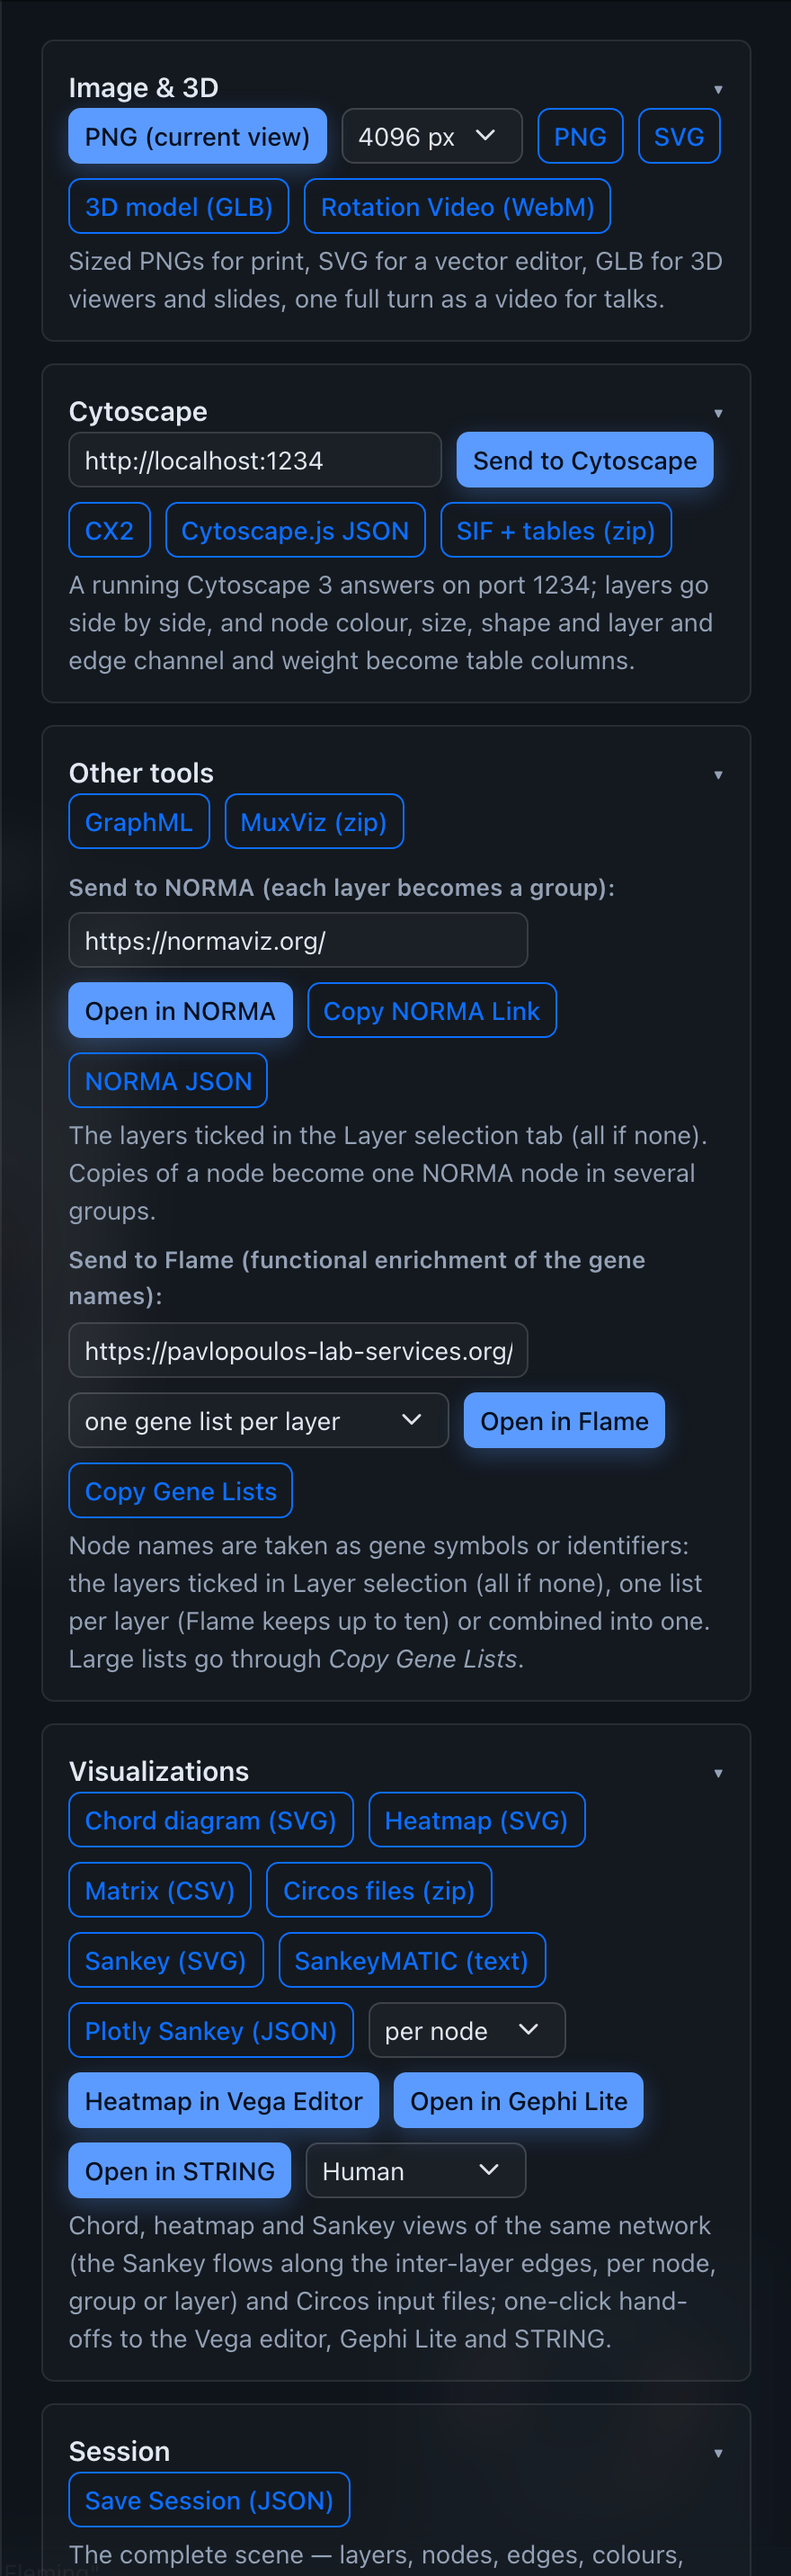
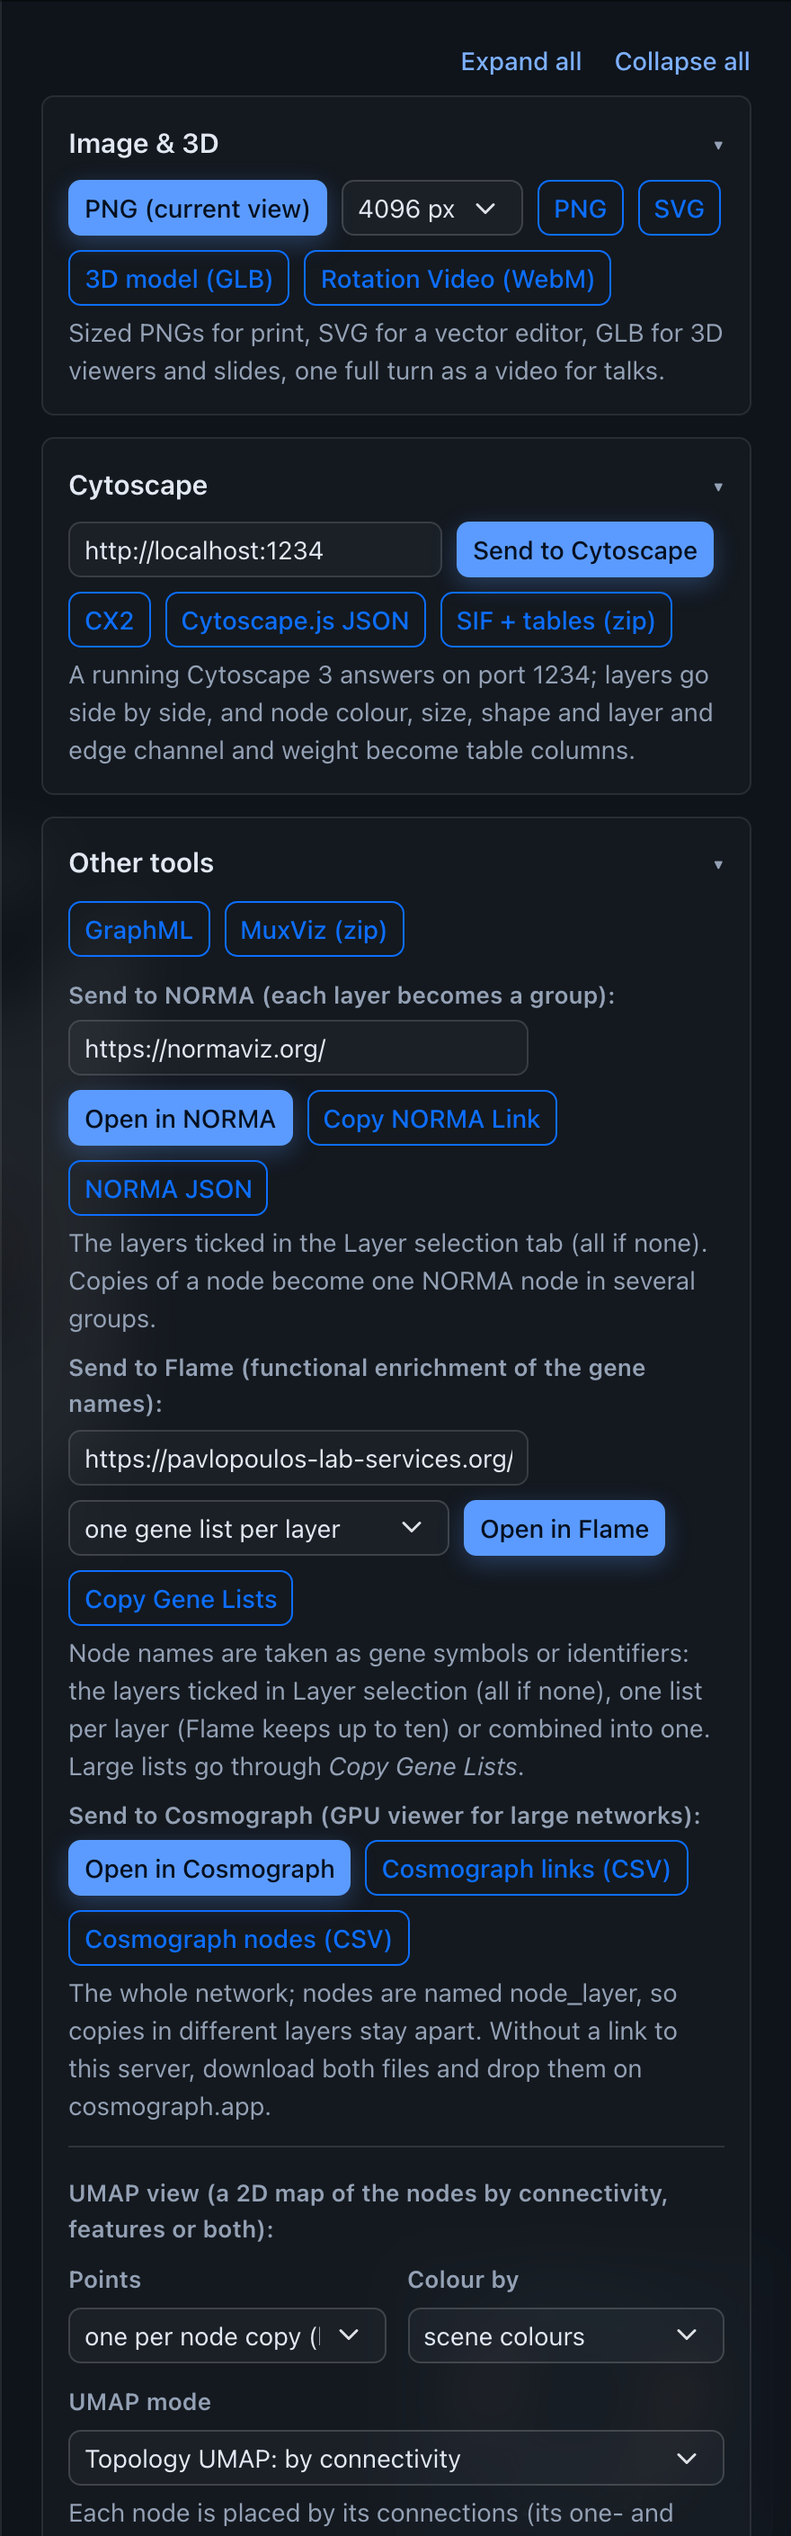
Help screenshots for Plots and Perturbation, dependency floors, Plots cache fix
- Help → Analyze shows the Plots and Perturbation panels; the interface
  screenshots are re-captured
- Analyze panels drop the Expand all / Collapse all row (none has three
  cards); Help says which panels have it
- Plots: the rich-club cache remembers its rewiring count per scope
- httpx2 >= 2.12.0 and vitest ^4.1.11 as minimum versions (Dependabot
  advisories; the lockfiles already had the patched releases)

diff --git a/frontend/e2e/help-shots.spec.ts b/frontend/e2e/help-shots.spec.ts
@@ -19,7 +19,9 @@ test.use({
   viewport: { width: 1440, height: 1500 },
   deviceScaleFactor: 2,
 })
-test.setTimeout(300_000)
+// some twenty panels at 2×, with a knockout and two attacks: minutes on a busy
+// machine
+test.setTimeout(900_000)
 
 const tab = (page: Page, name: string) =>
   page
@@ -230,8 +232,44 @@ test('capture the interface screenshots for the Help pages', async ({
   await expect(page.locator('#panel-main-view')).toHaveClass(/active/)
   await page.waitForTimeout(3000)
   await panel(page, 'Metrics', '#panel-metrics', 'analyze')
+  // a degree histogram, each layer overlaid, with its summary table
+  await panel(page, 'Plots', '#panel-plots', 'plots', async () => {
+    await page.locator('#plotKind').selectOption('histogram')
+    await page.locator('#plotSource').selectOption('metric:Degree')
+    await page.locator('#plotDraw').click()
+    await expect(page.locator('#plot_status')).toContainText(
+      'Drawn: Histogram',
+      { timeout: 60_000 }
+    )
+  })
   await panel(page, 'Data Tables', '#panel-data', 'data')
   await panel(page, 'Performance', '#panel-fps', 'performance')
+  // the top 5 nodes by degree knocked out, and a degree attack against
+  // random failure on the robustness chart
+  await panel(
+    page,
+    'Perturbation',
+    '#panel-perturbation',
+    'perturbation',
+    async () => {
+      await page.locator('#koNodes').selectOption('top')
+      await page.locator('#runKnockout').click()
+      await expect(page.locator('#perturb_status')).toContainText(
+        'Knocked out 5 nodes',
+        { timeout: 60_000 }
+      )
+      await page.locator('#attackStrategy').selectOption('degree')
+      await page.locator('#runAttack').click()
+      const attack = page.locator('#attack_status')
+      await expect(attack).toContainText('robustness R =', { timeout: 120_000 })
+      await page.locator('#attackKeep').check()
+      await page.locator('#attackStrategy').selectOption('random')
+      await page.locator('#runAttack').click()
+      await expect(attack).toContainText('random failure', { timeout: 120_000 })
+    }
+  )
+  // the nodes as they were, for the Clustering shot
+  await page.locator('#koRestore').click()
   // last, as it recolours the nodes: communities found, so the panel shows
   // its summary
   await panel(

diff --git a/frontend/src/ui/help.ts b/frontend/src/ui/help.ts
@@ -133,7 +133,7 @@ const HELP_HTML = `
   <p>
     The panels are made of cards. Click a card's title to fold or open it; the main ones start open (File →
     Network, Examples and Loaded networks, for example) and the rest start folded. In the long panels (File,
-    Edit → Nodes, Edges and Layers, Export and some of the Analyze panels), <i>Expand all</i> and <i>Collapse all</i>
+    Edit → Nodes, Edges and Layers, and Export), <i>Expand all</i> and <i>Collapse all</i>
     at the top open or fold every card at once. Arena3D remembers in this browser which cards you open or fold.
   </p>
   <h3>Networks menu</h3>
@@ -1353,6 +1353,7 @@ const HELP_HTML = `
   </p>
 
   <h3>Plots</h3>
+  <img class="help-shot help-shot--panel" src="${import.meta.env.BASE_URL}images/help/ui/plots.png" alt="The Plots panel: a histogram of degree over the whole network, with its summary statistics" loading="lazy">
   <p>
     <i>Plot</i> picks a chart and shows the options it needs; <i>Graphs</i> draws <i>each layer, overlaid</i> in the
     layer colours with a legend, or <i>the analysed layers as one graph</i> (Single network mode always does). The
@@ -1412,6 +1413,7 @@ const HELP_HTML = `
   </p>
 
   <h3>Perturbation</h3>
+  <img class="help-shot help-shot--panel" src="${import.meta.env.BASE_URL}images/help/ui/perturbation.png" alt="The Perturbation panel: a knockout of the top 5 nodes by degree, and the robustness curves of a degree attack and random failure" loading="lazy">
   <p>
     Analyze → Perturbation has two cards. <i>Knock out</i> removes nodes — the selected nodes, nodes by name (every copy in the analysed layers), or the
     top <i>k</i> by degree, betweenness or PageRank, in the whole network or in each layer — with <i>Every copy

diff --git a/frontend/src/ui/analyze.ts b/frontend/src/ui/analyze.ts
@@ -18,7 +18,7 @@ import { PERTURBATION_HTML, initPerturbation } from './perturbation'
 import { ANNOTATIONS_HTML, initAnnotations } from './annotations'
 import { GROUPS_HTML, initGroups } from './groups'
 import { PLOTS_HTML, initPlots } from './plots'
-import { FOLD_ALL_HTML, openCard } from './sections'
+import { openCard } from './sections'
 import { showTab } from './tabs'
 
 const analyzeProgress = new ProgressBar('analyzeProgress')
@@ -40,8 +40,9 @@ export const ANALYSIS_PANELS = [
   'annotations',
 ] as const
 
-const panel = (body: string, fold = false) =>
-  `<div class="col-md-8 col-lg-6 layout-panel">${fold ? FOLD_ALL_HTML : ''}${body}</div>`
+// (no Expand all / Collapse all row: no panel here has three cards)
+const panel = (body: string) =>
+  `<div class="col-md-8 col-lg-6 layout-panel">${body}</div>`
 
 // which layers an analysis covers (describeLayers fills every one)
 export const LAYERS_NOTE = (id = '') =>
@@ -102,9 +103,9 @@ const PANEL_HTML: Record<(typeof ANALYSIS_PANELS)[number], string> = {
   metrics: METRICS_HTML,
   statistics: STATISTICS_HTML,
   plots: panel(`${LAYERS_NOTE()}${PLOTS_HTML}`),
-  perturbation: panel(`${LAYERS_NOTE()}${PERTURBATION_HTML}`, true),
+  perturbation: panel(`${LAYERS_NOTE()}${PERTURBATION_HTML}`),
   explore: panel(EXPLORE_HTML),
-  annotations: panel(`${ANNOTATIONS_HTML}${GROUPS_HTML}`, true),
+  annotations: panel(`${ANNOTATIONS_HTML}${GROUPS_HTML}`),
 }
 
 function say(id: string, msg: string, isError: boolean): void {

diff --git a/frontend/src/ui/plots.ts b/frontend/src/ui/plots.ts
@@ -217,7 +217,8 @@ function colorOf(name: string): string {
 // per network, layers and channels: each graph's metrics and curves so far
 let cache: { key: string; scopes: Map<PlotScope, PlotScopeData[]> } | null =
   null
-let richRandom = -1 // what the cached rich-club curves were normalised by
+// per scope: how many rewired graphs the cached rich-club curves used
+const richRandom = new Map<PlotScope, number>()
 
 // where each extra comes back
 const FIELD: Record<PlotExtra, keyof PlotScopeData> = {
@@ -232,7 +233,7 @@ function cacheFor(): Map<PlotScope, PlotScopeData[]> {
   const key = JSON.stringify([analysedLayers(), selectedChannels()])
   if (!cache || cache.key !== key) {
     cache = { key, scopes: new Map() }
-    richRandom = -1
+    richRandom.clear()
   }
   return cache.scopes
 }
@@ -252,7 +253,7 @@ async function scopesWith(
     (x) =>
       !have?.length ||
       have[0][FIELD[x]] == null ||
-      (x === 'rich_club' && rich !== richRandom)
+      (x === 'rich_club' && rich !== richRandom.get(scope))
   )
   if (have && !missingMetrics.length && !missingExtras.length) return have
   abort?.abort()
@@ -273,7 +274,7 @@ async function scopesWith(
       },
       mine.signal
     )
-    if (missingExtras.includes('rich_club')) richRandom = rich
+    if (missingExtras.includes('rich_club')) richRandom.set(scope, rich)
     const merged = res.scopes.map((s) => {
       const old = have?.find((o) => o.name === s.name)
       if (!old) return s

diff --git a/CHANGELOG.md b/CHANGELOG.md
@@ -23,6 +23,7 @@
 - Shared exports (`GET /api/share/{token}`) are served as downloads in a sandbox (`Content-Disposition: attachment`, a `sandbox` content-security policy, `nosniff`), never as pages of the application's origin.
 - Links answered by a NORMA server and the Flame address must be web addresses (`http(s)`); node links passed to `POST /api/open` must be `http(s)` or `mailto` links.
 - Database imports have a time budget for the whole request (`ARENA_DB_TOTAL_SECONDS`, 150 s by default).
+- Dependencies past six Dependabot alerts (all development-only): httpx2 2.10.0 → 2.13.1 (GHSA-8xx6-hgc6-gc2m, high: unbounded memory while decompressing streamed responses; GHSA-pf96-p4fj-6566 and GHSA-h4x7-gw46-3wm6, medium: conflicting `Content-Length`/`Transfer-Encoding` headers, multipart header injection), vitest and @vitest/mocker 4.1.10 → 4.1.12 (GHSA-82fw-gwwq-j7x9, medium: file read through a redirect mock) and source-map-js 1.2.1 → 1.2.2, through vite's postcss (GHSA-68fv-2mgg-jv7q, high: event-loop denial of service from indexed source-map section offsets). The two direct dependencies' minimum versions are raised so a re-lock cannot fall back to a vulnerable release: `httpx2>=2.12.0` in `backend/pyproject.toml`, `vitest ^4.1.11` in `frontend/package.json`.
 
 ### Added
 
@@ -136,7 +137,7 @@
 
 ### Changed
 
-- **The Analyze menu is split into panels.** Instead of one long Analysis panel, Analyze ▾ lists Metrics (node metrics for sizes and colours), Statistics (network statistics, Compare Layers with its UpSet plot, a link to Compare Networks), Plots, Perturbation, Explore, Annotations & Groups (annotation sets, enrichment, pies and hulls, the group list) and Data Tables, grouped with dividers. Every control keeps its id; the cards in their own panels start open; Layer selection links to Metrics, Statistics, Plots and Perturbation, and the Networks menu's _Annotation options…_ opens Annotations & Groups. Help → Analyze describes each panel.
+- **The Analyze menu is split into panels.** Instead of one long Analysis panel, Analyze ▾ lists Metrics (node metrics for sizes and colours), Statistics (network statistics, Compare Layers with its UpSet plot, a link to Compare Networks), Plots, Perturbation, Explore, Annotations & Groups (annotation sets, enrichment, pies and hulls, the group list) and Data Tables, grouped with dividers. Every control keeps its id; the cards in their own panels start open; Layer selection links to Metrics, Statistics, Plots and Perturbation, and the Networks menu's _Annotation options…_ opens Annotations & Groups. Help → Analyze describes each panel, with screenshots of the Plots and Perturbation panels; the interface screenshots in Help are re-captured.
 - **Help reads like documentation.** The pages are listed in a side navigation, grouped (Start, Load & find, View & layout, Edit, Analyse & share, Reference) with an icon each; it stays in view while a page scrolls, and on narrow windows and phones it becomes a strip across the top that scrolls sideways. Every page opens with its group, its title and a one-line summary; screenshots and figures sit in frames with their description as the caption; long pages start with _On this page_ links to their sections. Option lists read as definition lists, numbered steps get numbered badges, asides are _Tip_ and _Note_ callouts, keys and menu paths (Edit → Style) are small chips, download links carry an arrow, and the file-format and API tables take the Data Tables style (the API field tables fit on phones). The Examples page shows every example as a card under its category, with its files and _Open in Arena3D_ for the bundled ones; each neural network now has its own card with its files. A new page starts at its top. The Cytoscape App page links to the app's current address in the Cytoscape App Store (the old one was gone).
 - **Help → About is redesigned.** An intro with the logo and the key facts (open source under the GNU AGPL v3, GitHub, the Docker image, how to cite, contact); Install Arena3D with buttons to the README and DockerHub; the publications as cards on a release timeline, newest first — Arena3D 3.0 (this version), the Arena3Dweb papers of 2023 and 2021 (marked _Please cite_) and the original Arena3D papers of 2008 and 2012, now listed too — each with a tag for its release, what that release introduced, and DOI, PubMed and _Copy citation_ buttons; NORMA, Flame and the Cytoscape Arena3DwebApp as cards with links to their sites and papers; the related literature and the developers as cards. Every reference was checked against PubMed. The Home page's citation cards read the same list, and _Copy citation_ now copies the DOI too (and says _Copy failed_ instead of failing silently where the browser has no clipboard).
 - **The panels fold into cards.** File, Edit → Nodes, Edges and Layers, View → Scene & Camera and Performance, Find, Clustering and the Analyze panels are made of cards like the Layout and Export panels: click a card's title to fold or open it. The main cards start open (File → _Network_, _Examples_ and _Loaded networks_; Nodes → _Selection & labels_ and _Shape_; Edges → _Weights_, _Direction_ and _Appearance_; Layers → _Labels & axes_, _Shape & container_ and _Floor_; Metrics → _Node Metrics_, Statistics → _Network_) and the rest start folded. _Expand all_ / _Collapse all_ at the top of File, Nodes, Edges, Layers and Export opens or folds every card of the panel, and the browser remembers which cards you open or fold, the Export, Layout and Database Importers cards too. Controls keep their ids; Edit → Layers' _Floor Color_ moved into its _Colours_ card.
